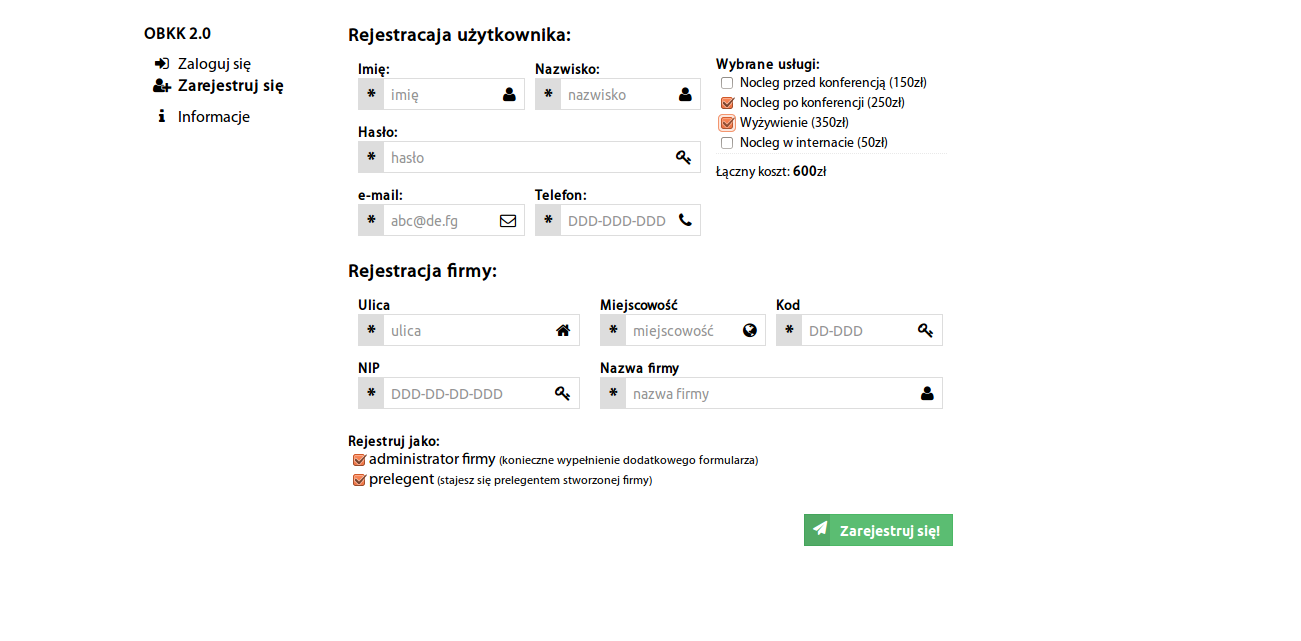
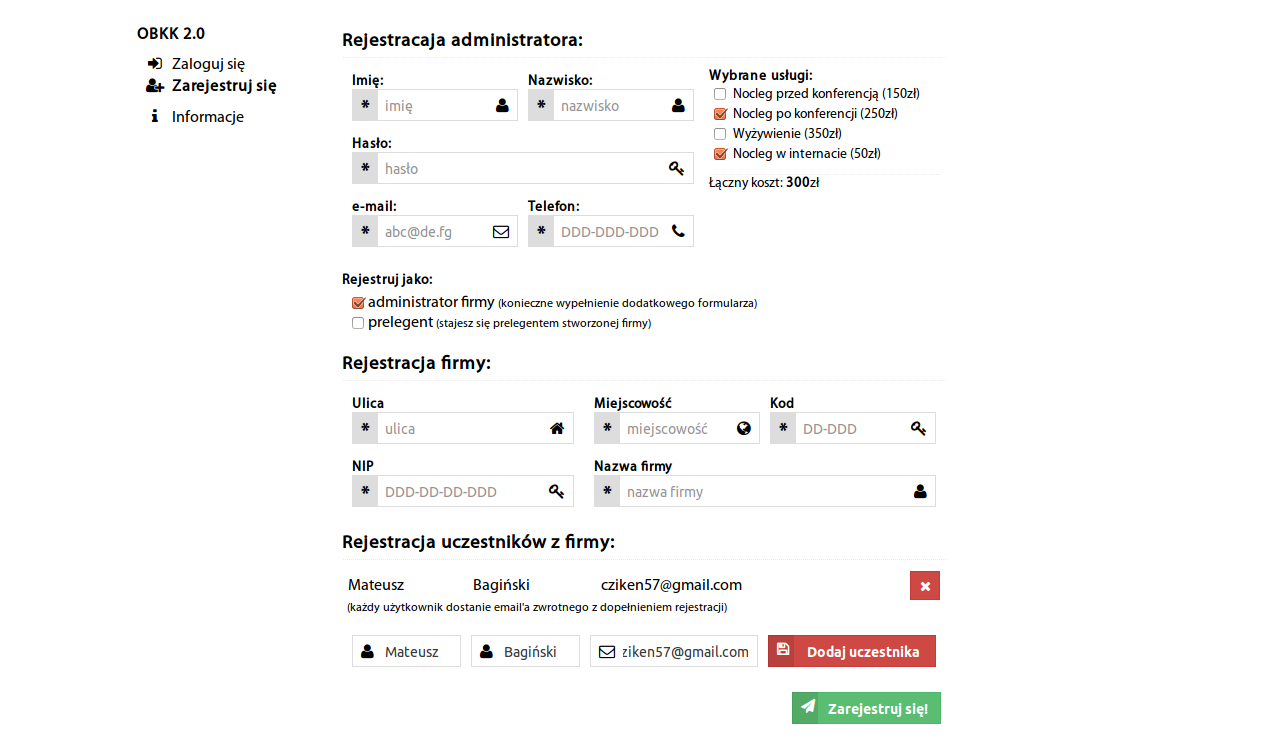
Update Gruntfile.js task

diff --git a/Gruntfile.js b/Gruntfile.js
@@ -9,7 +9,7 @@ module.exports = function(grunt) {
                     , 'views/**/*.jade'
                     , 'data/less/**/*.less' 
                 ]
-                , tasks: [ 'typescript', 'uglify', 'usebanner', 'less', 'wiredep', 'jade' ]
+                , tasks: [ 'typescript:base', 'typescript:exts', 'uglify', 'usebanner', 'less', 'wiredep', 'jade' ]
         	}
     	}
         , less: {
@@ -88,11 +88,19 @@ module.exports = function(grunt) {
             }
         }
         , typescript: {
-            base: {
-                  src: [ 'ts/**/*.ts' ]
+              base: {
+                  src: [ 'ts/**/*.ts', '!ts/exts/**/*.ts' ]
                 , dest: 'build/js/app.js'
                 , options: {
                     target: 'es5'
+                }
+            }
+            , exts: {
+                  src: [ 'ts/exts/**/*.ts' ]
+                , dest: 'build/js/exts'
+                , options: {
+                      target: 'es5'
+                    , module: 'commonjs'
                 }
             }
         }

diff --git a/ts/shared/controllers/registration.ts b/ts/shared/controllers/registration.ts
@@ -12,6 +12,8 @@ module Shared.Controllers {
         orders: IOrder[];
         totalCost: number;
         error: string;
+
+        advanced: boolean;
     };
 
     export class Registration {
@@ -20,7 +22,8 @@ module Shared.Controllers {
             , private api: IApi
         ) {
             $scope.fn = this;
-
+            $scope.advanced = false;
+            
             /** Pobieranie listy ofert cenowych */
             api.Orders.list().$promise.then(data => {
                 $scope.orders = data;
@@ -40,6 +43,12 @@ module Shared.Controllers {
                     , (mem, el: IOrder) => mem + el.price
                     , 0)
             });
+        };
+
+        /** Pokazywanie formy rejestracyjnej firmy */
+        public toggleAdvanced() {
+            this.$scope.advanced = !this.$scope.advanced;
+            this.$scope.form.company = <any> { users: [] };
         };
 
         /** getter/setter */

diff --git a/data/less/page.less b/data/less/page.less
@@ -54,13 +54,13 @@ input[type='text'], input[type='password'], button {
         margin:  0;
         border:  0;  
     };
-    .group {
-        margin-bottom: 5px;
-          & > input:not([type='checkbox'])
-        , & > .labeled > input:not([type='checkbox']) {
-            width:         100%;
-        };
-    };
+    // .group {
+    //     margin-bottom: 5px;
+    //       & > input:not([type='checkbox'])
+    //     , & > .labeled > input:not([type='checkbox']) {
+    //         width:         100%;
+    //     };
+    // };
 };
 
 /** Ikony w textbox */
@@ -89,6 +89,7 @@ input[type='text'], input[type='password'], button {
 
     input, button {
         &:extend(.icon input);
+        width: 100%;
         #corner-style() {
             font-size:  1.2em;
             &.star::after { content: "*"; };

diff --git a/ts/shared/api/api.ts b/ts/shared/api/api.ts
@@ -12,6 +12,7 @@ module Shared {
         data: any;
     };
 
+    /** Wszystkie metody API */
     export interface IApi {
         User: IUserResource
         Orders: IOrderResource

diff --git a/ts/main.ts b/ts/main.ts
@@ -2,6 +2,7 @@
 /// <reference path="./shared/_all.ts" />
 
 'use strict';
+
 module Application {
     function config(
           $stateProvider: ng.ui.IStateProvider

diff --git a/ts/exts/ext.ts b/ts/exts/ext.ts
@@ -1,0 +1,3 @@
+export class Module {
+    
+};
